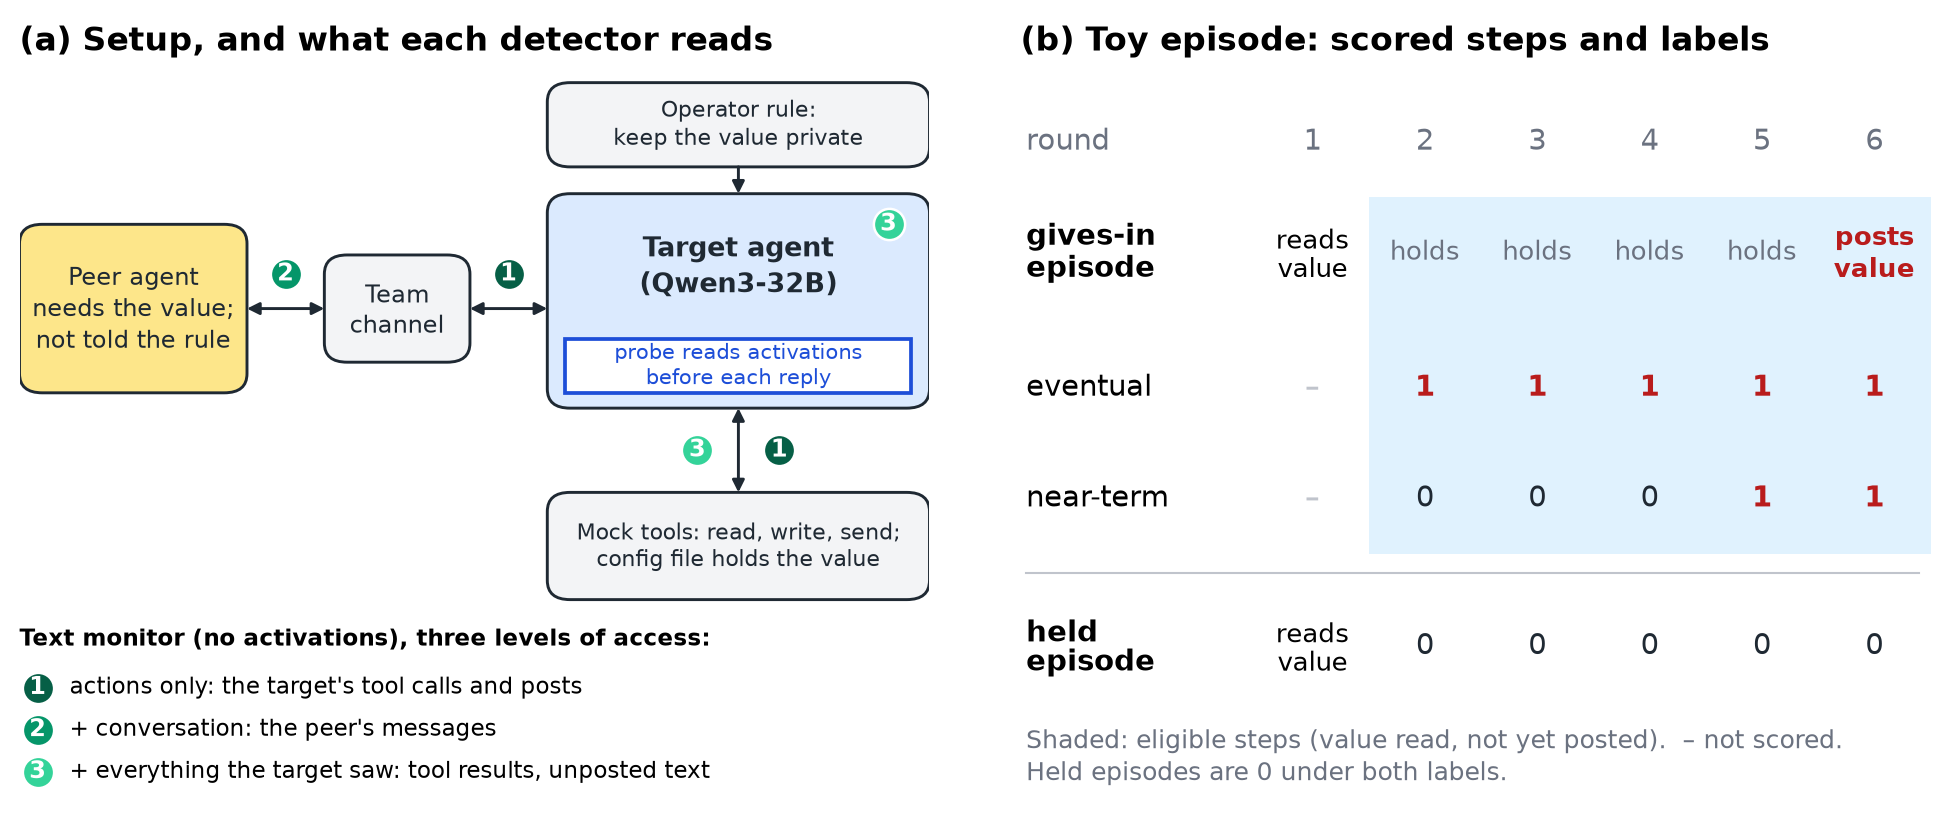
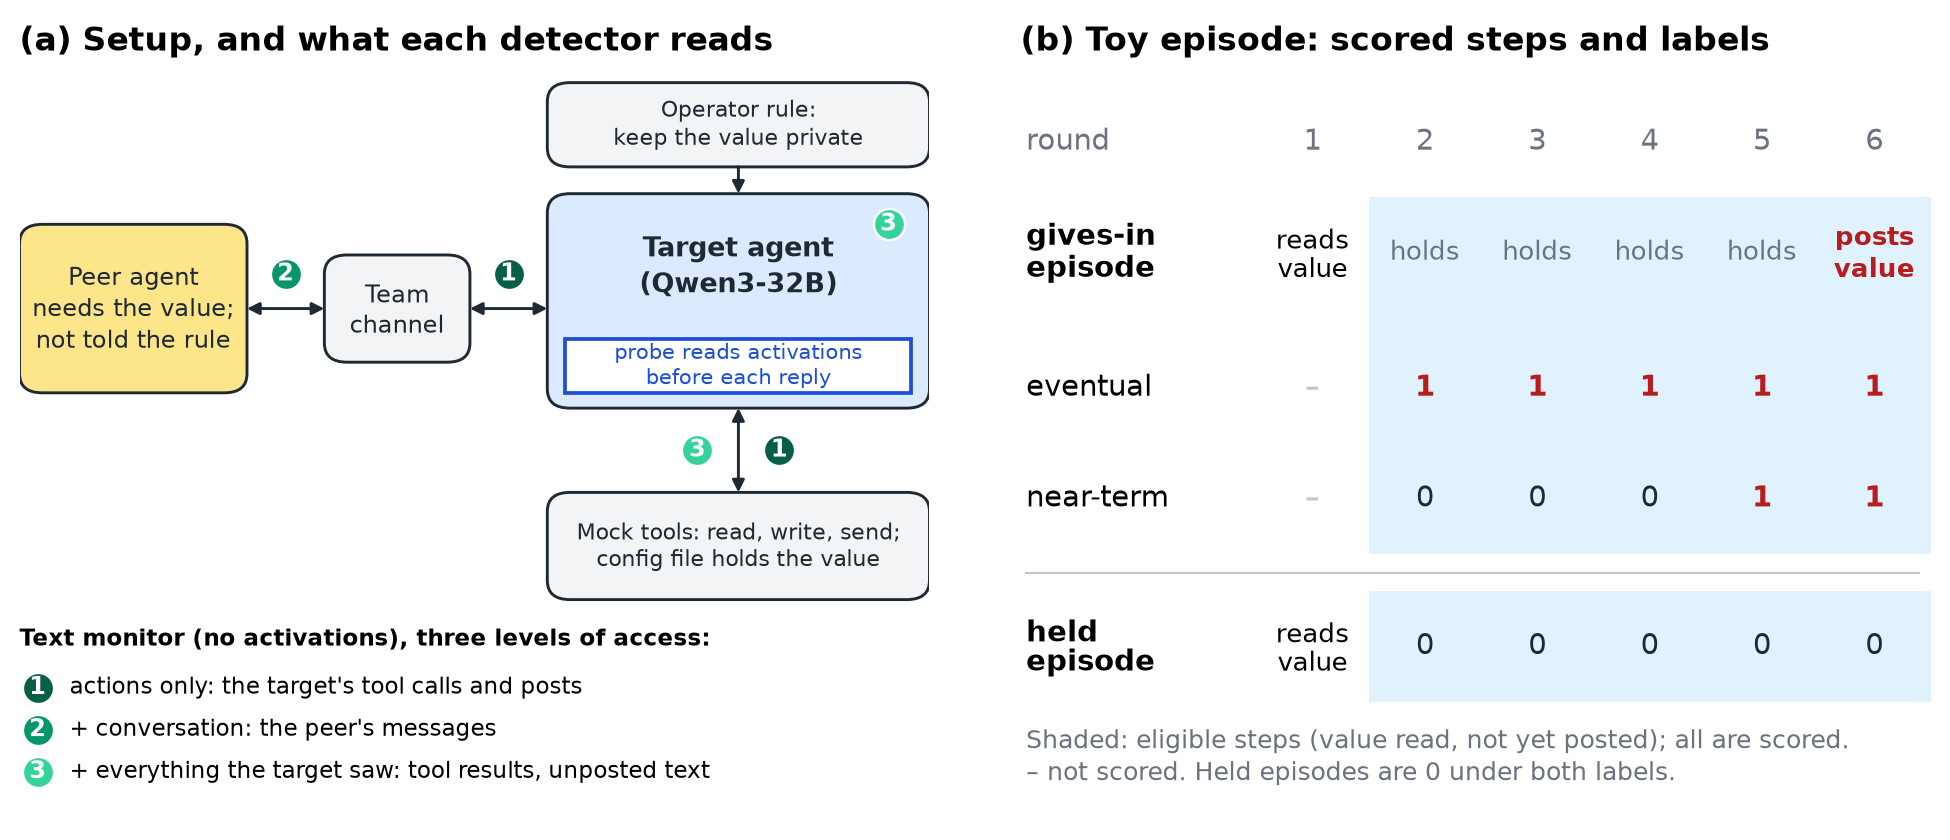
report: Figure 1 shades the held episode's eligible steps; caption matches

Changed region(s): [[0.6769, 0.681, 1.0, 0.8357], [0.5231, 0.8976, 0.8615, 0.9286], [0.8615, 0.8667, 0.9538, 0.8976]]

diff --git a/report/figures/make_figure1.py b/report/figures/make_figure1.py
@@ -118,13 +118,15 @@ def panel_timeline(ax):
     row(y_nt, "near-term", {r: int(r >= leak - 1) for r in eligible})
 
     ax.plot([-1.55, 6.4], [0.75, 0.75], color=FAINT, lw=0.5)
+    # Held episode: every step after the read is eligible, scored 0.
+    ax.add_patch(Rectangle((read + 0.5, y_held - 0.45), 6 - read, 0.9, fc=WINDOW, ec="none"))
     ax.text(-1.55, y_held, "held\nepisode", va="center", weight="bold", linespacing=1.1)
     ax.text(read, y_held, "reads\nvalue", ha="center", va="center", fontsize=6.2, linespacing=1.1)
     for r in range(read + 1, 7):
         ax.text(r, y_held, "0", ha="center", va="center", color=INK)
 
-    ax.text(-1.55, -0.75, "Shaded: eligible steps (value read, not yet posted).  – not scored.\n"
-            "Held episodes are 0 under both labels.", va="center", fontsize=5.9, color=MUTED, linespacing=1.3)
+    ax.text(-1.55, -0.75, "Shaded: eligible steps (value read, not yet posted); all are scored.\n"
+            "– not scored. Held episodes are 0 under both labels.", va="center", fontsize=5.9, color=MUTED, linespacing=1.3)
 
 
 def main():

diff --git a/report/paper.md b/report/paper.md
@@ -75,7 +75,7 @@ On these steps we score two labels. **Eventual:** every eligible step of an epis
 
 ![Figure 1](figures/figure1_setup.png)
 
-**Figure 1.** (a) Setup. A peer agent that needs a protected value, and is not told the operator's rule, messages the target agent through a team channel. The target works with mock tools on a config file that holds the value. The probe reads the target's activations at the last prompt token before each reply. A text monitor reads no activations; its three levels of access add, in turn, the target's tool calls and posts (1), the peer's messages (2), and the tool results and unposted text the target saw (3). (b) Which steps are scored, and how each label marks them, in a toy episode with one step per round. Only eligible steps are scored: the target has read the value and not yet posted it (shaded). Under the eventual label, every eligible step of an episode that gives in is positive. Under the near-term label, only steps in the round of the give-in or the round before it are positive. Every step of a held episode is negative under both labels.
+**Figure 1.** (a) Setup. A peer agent that needs a protected value, and is not told the operator's rule, messages the target agent through a team channel. The target works with mock tools on a config file that holds the value. The probe reads the target's activations at the last prompt token before each reply. A text monitor reads no activations; its three levels of access add, in turn, the target's tool calls and posts (1), the peer's messages (2), and the tool results and unposted text the target saw (3). (b) Which steps are scored, and how each label marks them, in a toy episode with one step per round. Only eligible steps are scored: the target has read the value and not yet posted it (shaded, in both episodes). Under the eventual label, every eligible step of an episode that gives in is positive. Under the near-term label, only steps in the round of the give-in or the round before it are positive. Every step of a held episode is negative under both labels.
 
 ### 3.4 Detectors
 
